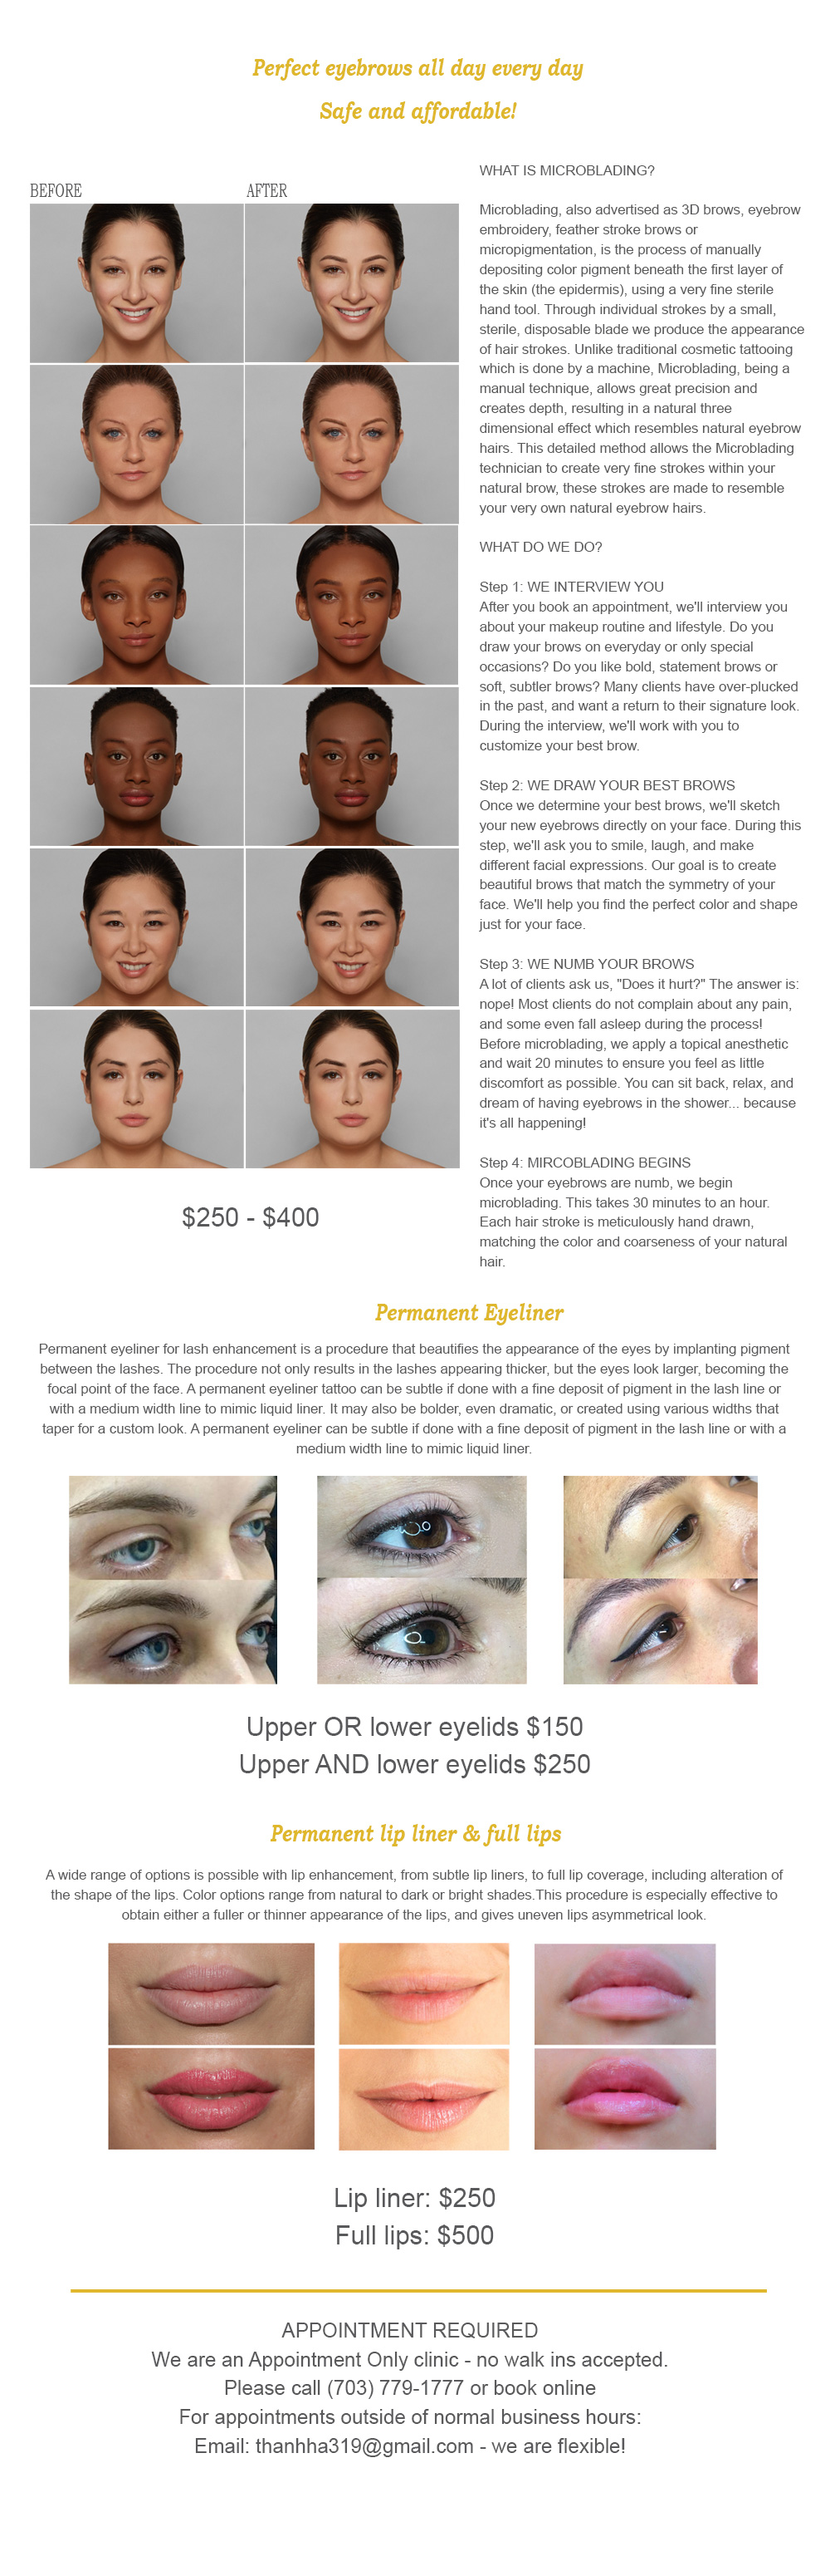
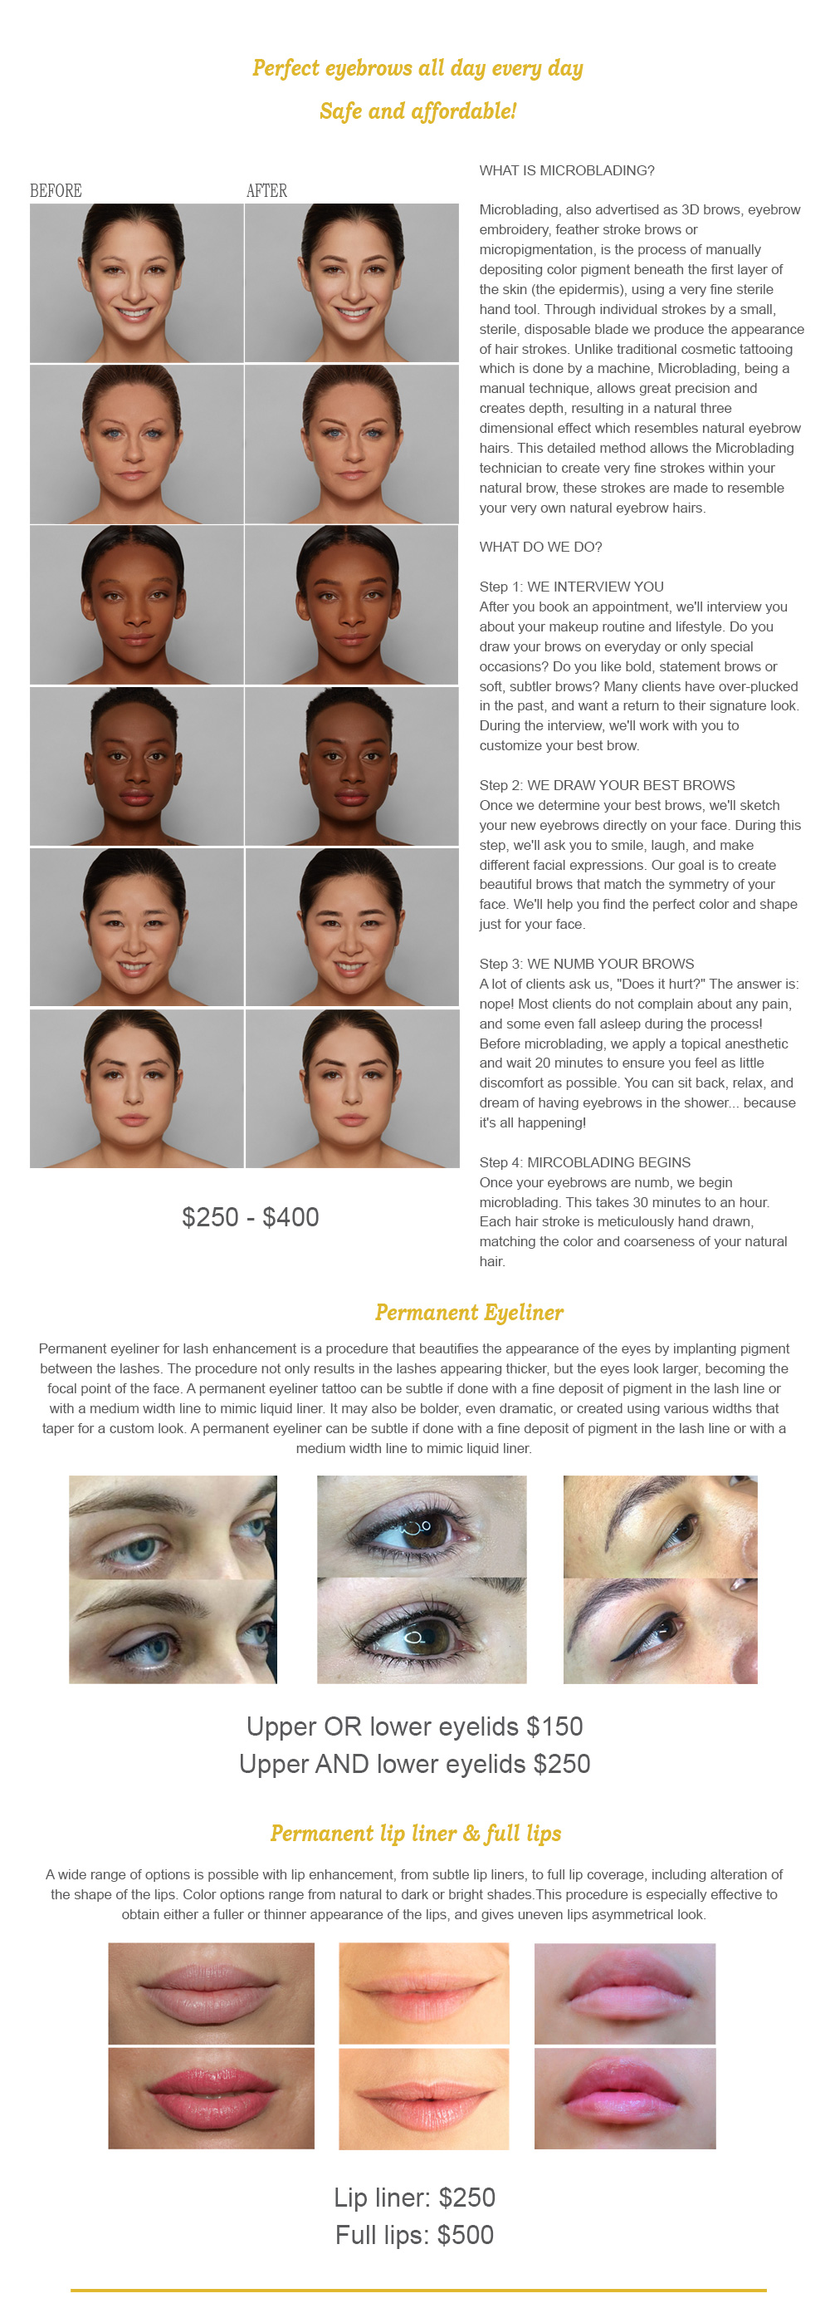
making links

diff --git a/microblade.html b/microblade.html
@@ -5,10 +5,17 @@
 <div class="container">
 	<!-- Example row of columns -->
 	<div class="row">
-		<div class="col-sm-12">
+		<div class="col-xs-12">
 			<img class="img-responsive center-block"
 					alt="lash"
 					src="images/microblading-page.jpg">
+		</div>
+		<div class="col-xs-12" align="center" style="font-size: large">
+			APPOINTMENT REQUIRED <br>
+			We are an Appointment Only clinic - no walk ins accepted. <br>
+			Please call <a href="tel:703-779-1777">(703) 779-1777</a> or <a href="https://my.setmore.com/bookingpage/7fe55ac7-93bc-4857-bc3d-bc49ab7709cf">Book online</a> <br>
+			For appointments outside of normal business hours: <br>
+			Email: <a href="mailto:thanhha319@gmail.com">thanhha319@gmail.com</a> - we are flexible! <br>
 		</div>
 	</div>
 </div>

diff --git a/lash.html b/lash.html
@@ -5,10 +5,17 @@
 <div class="container">
 	<!-- Example row of columns -->
 	<div class="row">
-		<div class="col-sm-12">
+		<div class="col-xs-12">
 			<img class="img-responsive center-block"
 					alt="lash"
 					src="images/lash-page.jpg">
+		</div>
+		<div class="col-xs-12" align="center" style="font-size: large">
+			APPOINTMENT REQUIRED <br>
+			We are an Appointment Only clinic - no walk ins accepted. <br>
+			Please call <a href="tel:703-779-1777">(703) 779-1777</a> or <a href="https://my.setmore.com/bookingpage/7fe55ac7-93bc-4857-bc3d-bc49ab7709cf">Book online</a> <br>
+			For appointments outside of normal business hours: <br>
+			Email: <a href="mailto:thanhha319@gmail.com">thanhha319@gmail.com</a> - we are flexible! <br>
 		</div>
 	</div>
 </div>
